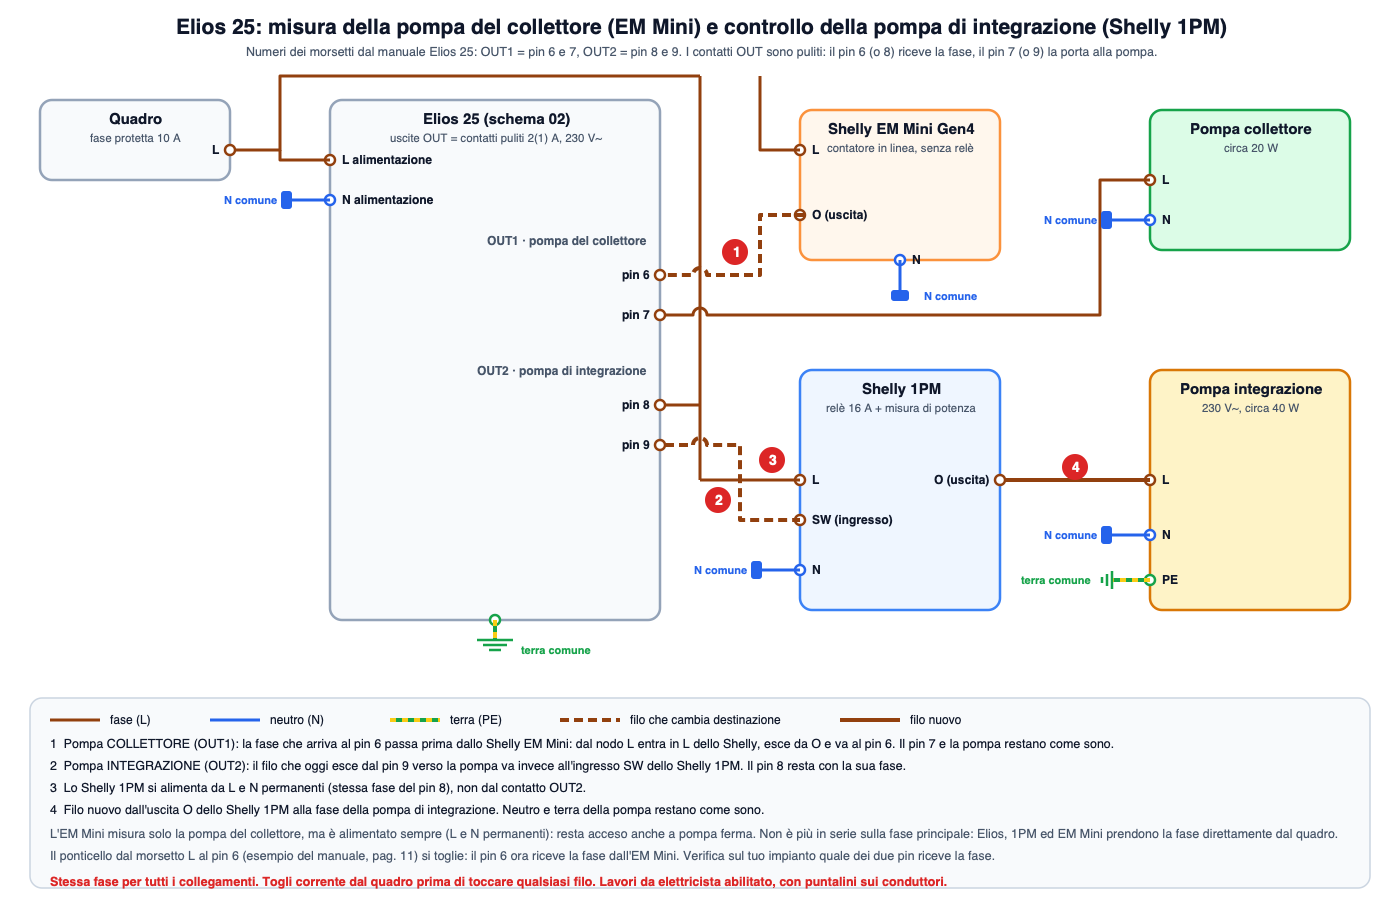
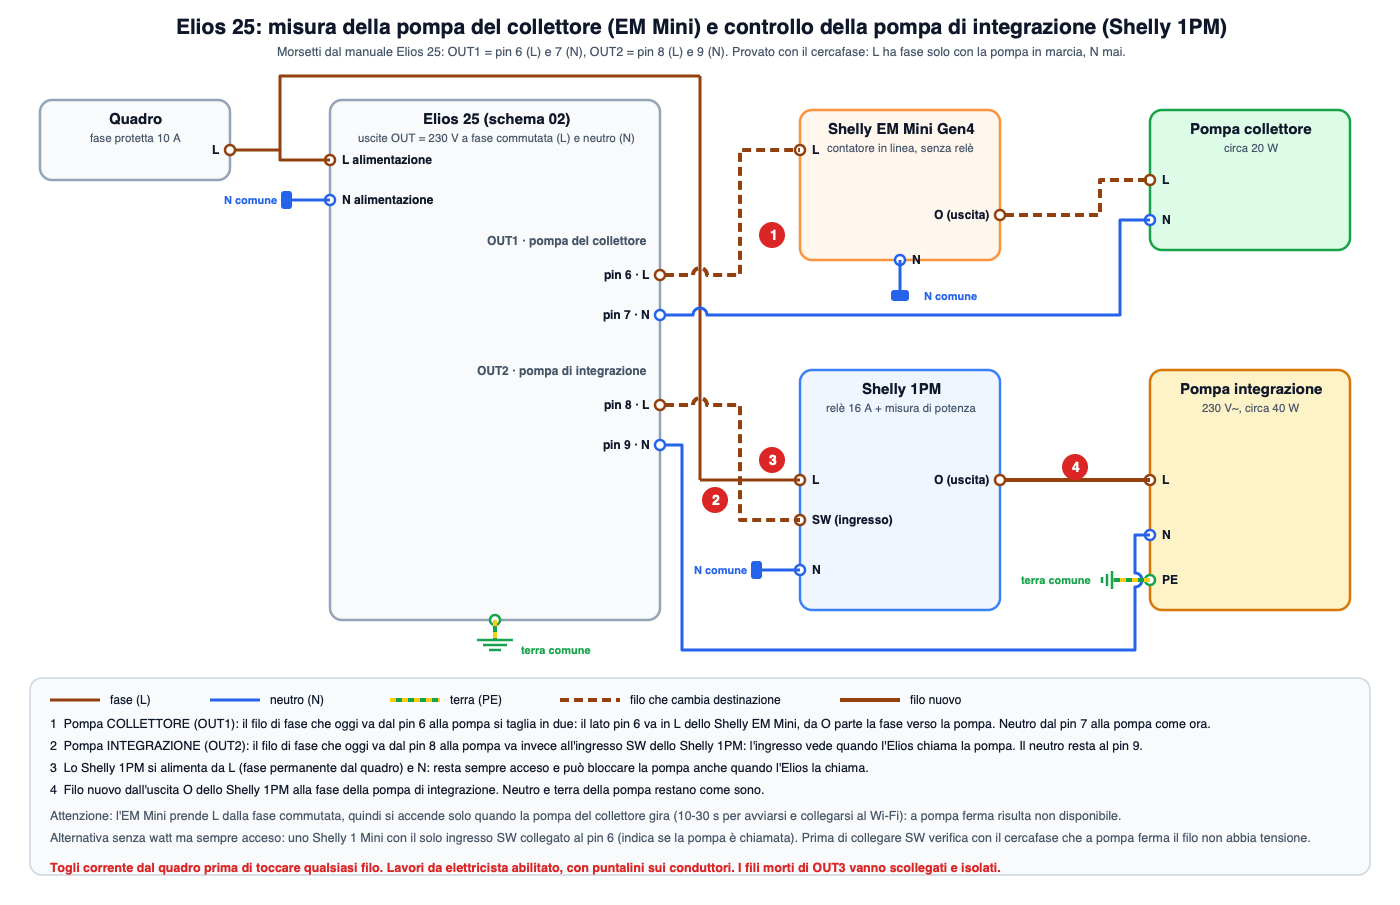
Schema cablaggio corretto: uscite Elios a fase commutata (prova con cercafase)

diff --git a/shelly/integrazione-blocco.js b/shelly/integrazione-blocco.js
@@ -1,4 +1,4 @@
-// Shelly 1PM Gen4 - pompa di integrazione dell'Elios (OUT2, pin 9 sull'ingresso SW, uscita O sulla pompa).
+// Shelly 1PM Gen4 - pompa di integrazione dell'Elios (OUT2, pin 8 (L, fase commutata) sull'ingresso SW, uscita O sulla pompa).
 //
 // BOZZA NON PROVATA SU UN DISPOSITIVO: provarla con calma, prima a vuoto (senza pompa collegata o con la pompa ferma).
 //

diff --git a/docs/genera_cablaggio.py b/docs/genera_cablaggio.py
@@ -1,8 +1,10 @@
 """Genera docs/schema-cablaggio.svg: Shelly 1PM sulla pompa di integrazione (OUT2, pin 8-9) e Shelly EM Mini
-sulla pompa del collettore (OUT1, pin 6-7). Numeri dei morsetti dal manuale Elios 25 (pagina 8)."""
+sulla pompa del collettore (OUT1, pin 6-7). Numeri dei morsetti dal manuale Elios 25 (pagina 8).
+Prova con il cercafase del 5/10/2026: L di OUT1/OUT2 in tensione solo con la pompa in marcia, N mai =
+uscite a fase commutata (non contatti puliti)."""
 import html
 
-W, H = 1400, 920
+W, H = 1400, 905
 o = []
 a = o.append
 BR, BL, GR, RED, INK, SUB = "#92400e", "#2563eb", "#16a34a", "#dc2626", "#0f172a", "#475569"
@@ -66,24 +68,24 @@ HOP = "a7 7 0 0 1 14 0"
 a(f'<svg xmlns="http://www.w3.org/2000/svg" viewBox="0 0 {W} {H}" width="{W}" height="{H}" font-family="Helvetica, Arial, sans-serif">')
 a(f'<rect width="{W}" height="{H}" fill="#ffffff"/>')
 t(W / 2, 34, "Elios 25: misura della pompa del collettore (EM Mini) e controllo della pompa di integrazione (Shelly 1PM)", 21, "700", anchor="middle")
-t(W / 2, 56, "Numeri dei morsetti dal manuale Elios 25: OUT1 = pin 6 e 7, OUT2 = pin 8 e 9. I contatti OUT sono puliti: il pin 6 (o 8) riceve la fase, il pin 7 (o 9) la porta alla pompa.", 12.5, fill=SUB, anchor="middle")
+t(W / 2, 56, "Morsetti dal manuale Elios 25: OUT1 = pin 6 (L) e 7 (N), OUT2 = pin 8 (L) e 9 (N). Provato con il cercafase: L ha fase solo con la pompa in marcia, N mai.", 12.5, fill=SUB, anchor="middle")
 
 # quadro
 box(40, 100, 190, 80, "Quadro", sub="fase protetta 10 A")
 term(230, 150, "L", "r", BR)
 
 # Elios
-box(330, 100, 330, 520, "Elios 25 (schema 02)", sub="uscite OUT = contatti puliti 2(1) A, 230 V~")
+box(330, 100, 330, 520, "Elios 25 (schema 02)", sub="uscite OUT = 230 V a fase commutata (L) e neutro (N)")
 term(330, 160, "L alimentazione", "l", BR); term(330, 200, "N alimentazione", "l", BL)
 t(645, 245, "OUT1 · pompa del collettore", 12, "700", SUB, "end")
-term(660, 275, "pin 6", "r", BR); term(660, 315, "pin 7", "r", BR)
+term(660, 275, "pin 6 · L", "r", BR); term(660, 315, "pin 7 · N", "r", BL)
 t(645, 375, "OUT2 · pompa di integrazione", 12, "700", SUB, "end")
-term(660, 405, "pin 8", "r", BR); term(660, 445, "pin 9", "r", BR)
+term(660, 405, "pin 8 · L", "r", BR); term(660, 445, "pin 9 · N", "r", BL)
 term(495, 620, "", "l", GR)
 
-# Shelly EM Mini (collettore)
+# Shelly EM Mini (collettore): L a sinistra, O a destra
 box(800, 110, 200, 150, "Shelly EM Mini Gen4", fill="#fff7ed", stroke="#fb923c", sub="contatore in linea, senza relè")
-term(800, 150, "L", "l", BR); term(800, 215, "O (uscita)", "l", BR); term(900, 260, "N", "l", BL)
+term(800, 150, "L", "l", BR); term(1000, 215, "O (uscita)", "r", BR); term(900, 260, "N", "l", BL)
 # pompa collettore
 box(1150, 110, 200, 140, "Pompa collettore", fill="#dcfce7", stroke="#16a34a", sub="circa 20 W")
 term(1150, 180, "L", "l", BR); term(1150, 220, "N", "l", BL)
@@ -95,46 +97,47 @@ term(1000, 480, "O (uscita)", "r", BR)
 box(1150, 370, 200, 240, "Pompa integrazione", fill="#fef3c7", stroke="#d97706", sub="230 V~, circa 40 W")
 term(1150, 480, "L", "l", BR); term(1150, 535, "N", "l", BL); term(1150, 580, "PE", "l", GR)
 
-# ---- fase
-wire([(235, 150), (280, 150), (280, 76), (700, 76)])            # barra di fase in alto
-wire([(280, 150), (280, 160), (330, 160)])                      # Elios L
-wire([(700, 76), (700, 480)])                                   # discesa verso pin 8 e Shelly 1PM
-wire([(700, 405), (665, 405)])                                  # pin 8 <- fase
-wire([(700, 480), (800, 480)])                                  # Shelly 1PM L
-wire([(760, 76), (760, 150), (800, 150)])                       # EM Mini L
-# EM Mini O -> pin 6 (spostato), ponticello sulla barra
-path("M805 215 H760 V275 H707 " + "a7 7 0 0 0 -14 0" + " H665", dash="9 5", wd=4)
-# pin 7 -> pompa collettore (invariato), ponticello sulla barra
-path("M665 315 H693 " + HOP + " H1100 V180 H1150")
-# pin 9 -> SW (spostato), ponticello sulla barra
-path("M665 445 H693 " + HOP + " H740 V520 H800", dash="9 5", wd=4)
+# ---- fase permanente: quadro -> Elios e Shelly 1PM
+wire([(235, 150), (280, 150), (280, 76), (700, 76)])
+wire([(280, 150), (280, 160), (330, 160)])
+wire([(700, 76), (700, 480)])
+wire([(700, 480), (800, 480)])
+# OUT1: pin 6 (fase commutata) -> L dell'EM Mini; O -> pompa collettore (il filo si taglia in due)
+path("M665 275 H693 " + HOP + " H740 V150 H800", dash="9 5", wd=4)
+path("M1005 215 H1100 V180 H1150", dash="9 5", wd=4)
+# OUT1: pin 7 (neutro) -> pompa collettore (invariato)
+path("M665 315 H693 " + HOP + " H1120 V220 H1150", BL)
+# OUT2: pin 8 (fase commutata) -> SW dello Shelly 1PM (spostato)
+path("M665 405 H693 " + HOP + " H740 V520 H800", dash="9 5", wd=4)
+# OUT2: pin 9 (neutro) -> pompa integrazione (invariato), passa sotto lo Shelly
+path("M665 445 H682 V650 H1135 V587 a7 7 0 0 0 0 -14 V535 H1150", BL)
 # Shelly 1PM O -> pompa integrazione (nuovo)
 wire([(1005, 480), (1150, 480)], wd=4)
 # neutro e terra
-n_stub(330, 200); n_stub_down(900, 260); n_stub(1150, 220); n_stub(800, 570); n_stub(1150, 535); pe_stub_h(1150, 580)
+n_stub(330, 200); n_stub_down(900, 260); n_stub(800, 570); pe_stub_h(1150, 580)
 wire([(495, 620), (495, 640)], GR, wd=4); wire([(495, 620), (495, 640)], "#facc15", "6 6", 4)
 for i, w in enumerate((18, 12, 6)):
     a(f'<line x1="{495 - w}" y1="{640 + i * 5}" x2="{495 + w}" y2="{640 + i * 5}" stroke="{GR}" stroke-width="2.5"/>')
 t(521, 654, "terra comune", 11, "700", GR)
 
 # numeri
-tag(735, 252, 1); tag(718, 500, 2); tag(772, 460, 3); tag(1075, 467, 4)
+tag(772, 235, 1); tag(715, 500, 2); tag(772, 460, 3); tag(1075, 467, 4)
 
 # legenda
-ly = 720
-a(f'<rect x="30" y="{ly - 22}" width="1340" height="190" rx="12" fill="#f8fafc" stroke="#cbd5e1" stroke-width="1.5"/>')
+ly = 700
+a(f'<rect x="30" y="{ly - 22}" width="1340" height="{H - ly - 8}" rx="12" fill="#f8fafc" stroke="#cbd5e1" stroke-width="1.5"/>')
 wire([(50, ly), (100, ly)]); t(110, ly + 4, "fase (L)", 12)
 wire([(210, ly), (260, ly)], BL); t(270, ly + 4, "neutro (N)", 12)
 wire([(390, ly), (440, ly)], GR, wd=4); wire([(390, ly), (440, ly)], "#facc15", "6 6", 4); t(450, ly + 4, "terra (PE)", 12)
 wire([(560, ly), (620, ly)], BR, dash="9 5", wd=4); t(630, ly + 4, "filo che cambia destinazione", 12)
 wire([(840, ly), (900, ly)], BR, wd=4); t(910, ly + 4, "filo nuovo", 12)
-t(50, ly + 28, "1  Pompa COLLETTORE (OUT1): la fase che arriva al pin 6 passa prima dallo Shelly EM Mini: dal nodo L entra in L dello Shelly, esce da O e va al pin 6. Il pin 7 e la pompa restano come sono.", 12.5)
-t(50, ly + 50, "2  Pompa INTEGRAZIONE (OUT2): il filo che oggi esce dal pin 9 verso la pompa va invece all'ingresso SW dello Shelly 1PM. Il pin 8 resta con la sua fase.", 12.5)
-t(50, ly + 72, "3  Lo Shelly 1PM si alimenta da L e N permanenti (stessa fase del pin 8), non dal contatto OUT2.", 12.5)
+t(50, ly + 28, "1  Pompa COLLETTORE (OUT1): il filo di fase che oggi va dal pin 6 alla pompa si taglia in due: il lato pin 6 va in L dello Shelly EM Mini, da O parte la fase verso la pompa. Neutro dal pin 7 alla pompa come ora.", 12.5)
+t(50, ly + 50, "2  Pompa INTEGRAZIONE (OUT2): il filo di fase che oggi va dal pin 8 alla pompa va invece all'ingresso SW dello Shelly 1PM: l'ingresso vede quando l'Elios chiama la pompa. Il neutro resta al pin 9.", 12.5)
+t(50, ly + 72, "3  Lo Shelly 1PM si alimenta da L (fase permanente dal quadro) e N: resta sempre acceso e può bloccare la pompa anche quando l'Elios la chiama.", 12.5)
 t(50, ly + 94, "4  Filo nuovo dall'uscita O dello Shelly 1PM alla fase della pompa di integrazione. Neutro e terra della pompa restano come sono.", 12.5)
-t(50, ly + 118, "L'EM Mini misura solo la pompa del collettore, ma è alimentato sempre (L e N permanenti): resta acceso anche a pompa ferma. Non è più in serie sulla fase principale: Elios, 1PM ed EM Mini prendono la fase direttamente dal quadro.", 12.5, fill=SUB)
-t(50, ly + 140, "Il ponticello dal morsetto L al pin 6 (esempio del manuale, pag. 11) si toglie: il pin 6 ora riceve la fase dall'EM Mini. Verifica sul tuo impianto quale dei due pin riceve la fase.", 12.5, fill=SUB)
-t(50, ly + 166, "Stessa fase per tutti i collegamenti. Togli corrente dal quadro prima di toccare qualsiasi filo. Lavori da elettricista abilitato, con puntalini sui conduttori.", 12.5, "700", RED)
+t(50, ly + 120, "Attenzione: l'EM Mini prende L dalla fase commutata, quindi si accende solo quando la pompa del collettore gira (10-30 s per avviarsi e collegarsi al Wi-Fi): a pompa ferma risulta non disponibile.", 12.5, fill=SUB)
+t(50, ly + 142, "Alternativa senza watt ma sempre acceso: uno Shelly 1 Mini con il solo ingresso SW collegato al pin 6 (indica se la pompa è chiamata). Prima di collegare SW verifica con il cercafase che a pompa ferma il filo non abbia tensione.", 12.5, fill=SUB)
+t(50, ly + 172, "Togli corrente dal quadro prima di toccare qualsiasi filo. Lavori da elettricista abilitato, con puntalini sui conduttori. I fili morti di OUT3 vanno scollegati e isolati.", 12.5, "700", RED)
 a('</svg>')
 open("docs/schema-cablaggio.svg", "w").write("\n".join(o))
 print("ok")

diff --git a/docs/MEMORIA.md b/docs/MEMORIA.md
@@ -113,7 +113,7 @@ flowchart TD
 | Stato e puffer della Polygon | `sensor.casale_stato`, `sensor.casale_temperatura_boiler` (= puffer da 50 L), `sensor.casale_temperatura_acqua` |
 | Accensione / spegnimento | `climate.casale_acqua` (heat / off) |
 | Misura della potenza | **Misura rimossa il 5/10/2026** (Shelly tolto, in attesa di rimontarlo): la logica è esclusa dall'interruttore `input_boolean.centralina_pompe_misura_attiva`, spento, da riaccendere al rimontaggio. Lo **Shelly EM Mini Gen4** è un contatore in linea (morsetti L, N, due O collegate, senza pinza né relè, fino a 16 A). Progetto: va in serie sulla fase che entra nel pin 6 (OUT1, pompa del collettore) e misura solo quella pompa; lo Shelly 1PM sul pin 9 (OUT2) misura e blocca l'integrazione. Pin Elios 25: OUT1 = 6/7, OUT2 = 8/9, alarm NC/NO/C, N, L. Schema: `docs/schema-cablaggio.png`. |
-| Morsettiera Elios (foto del 5/10/2026) | Da sinistra: OUT4 N L (vuoto), **OUT3 N L con due fili (blu e marrone) morti, non servono più**, OUT2 N L (pompa di integrazione), OUT1 N L (pompa del collettore), ALARM NC NA C (vuoti), alimentazione N L. Le sonde S1–S4 sono sul blocco a sinistra. Numerazione del manuale da destra: alimentazione 1-2, allarme 3-5, OUT1 pin 6-7, OUT2 pin 8-9, OUT3 pin 10-11, OUT4 pin 12-13. Prima di lavorare sui pin 6-9 con lo Shelly, verificare con il cercafase quale filo porta la fase alla pompa: i colori (blu sul morsetto N, marrone sul morsetto L) potrebbero non corrispondere. I fili di OUT3 vanno scollegati e isolati uno per uno. |
+| Morsettiera Elios (foto del 5/10/2026) | Da sinistra: OUT4 N L (vuoto), **OUT3 N L con due fili (blu e marrone) morti, non servono più**, OUT2 N L (pompa di integrazione), OUT1 N L (pompa del collettore), ALARM NC NA C (vuoti), alimentazione N L. Le sonde S1–S4 sono sul blocco a sinistra. Numerazione del manuale da destra: alimentazione 1-2, allarme 3-5, OUT1 pin 6-7, OUT2 pin 8-9, OUT3 pin 10-11, OUT4 pin 12-13. **Prova con il cercafase (5/10/2026): su OUT1 e OUT2 il morsetto L ha fase solo con la pompa in marcia, il morsetto N mai: le uscite sono a fase commutata, non contatti puliti. Il pin 6/8 (L) porta la fase alla pompa, il pin 7/9 (N) è il neutro.** Schema corretto: `docs/schema-cablaggio.png` (EM Mini in serie sul filo di fase del pin 6, si accende solo con la pompa in marcia; 1PM con SW sul filo del pin 8, L e N permanenti, O alla pompa). I fili di OUT3 vanno scollegati e isolati uno per uno. |
 | Pompe della centralina solare | `sensor.garage_centralina_solare_pompe_potenza` misura **tutta la centralina**: sotto 10 W pompe ferme, fino a 26 W solo collettore, 26-55 W solo integrazione (30-40 W attesi, da verificare), da 55 W entrambe. Stato in `sensor.caldaia_centralina_solare_pompe_stato`, `binary_sensor.caldaia_pompa_integrazione_attiva` e `..._collettore_attiva`; sulla scheda il tratteggio bianco scorre dentro la serpentina (integrazione in alto, collettore in basso) e sotto compare «pompa integrazione» o «pompa collettore»; i tubi dal puffer sono fissi |
 | Pellet | `binary_sensor.casale_riserva_legna` (riserva), `binary_sensor.casale_pellet_empty` (vuoto), `binary_sensor.casale_pellet_hopper_open` (serbatoio aperto): sulla scheda la tramoggia della stufa cambia colore (verde ok, arancione riserva, rosso vuoto, blu aperto) e c'è la riga «Pellet» |
 | Programmi (N = 1..4) | `time.casale_crono_pN_accensione`, `..._spegnimento`, `number.casale_crono_pN_setpoint_boiler`, `..._setpoint_acqua`, `switch.casale_crono_pN_<giorno>`, `switch.casale_cronotermostato_settimanale` |

diff --git a/shelly/README.md b/shelly/README.md
@@ -4,7 +4,7 @@
 con scadenza di sicurezza. **Bozza non provata su un dispositivo.**
 
 ## Prova consigliata
-1. Installa lo script con la pompa scollegata (o con il solo carico di prova), ingresso collegato al pin 9 dell'Elios.
+1. Installa lo script con la pompa scollegata (o con il solo carico di prova), ingresso SW collegato al pin 8 dell'Elios (OUT2, L: fase commutata, in tensione solo quando l'Elios chiama la pompa).
 2. Forza OUT2 dall'Elios (modalità manuale): il relè deve chiudere; togli la richiesta: deve aprire.
 3. Con la richiesta attiva, accendi il booleano «Blocca integrazione»: il relè deve aprire; dopo `BLOCK_MAX_S` (600 s) deve
    richiudere da solo e il booleano tornare spento.
